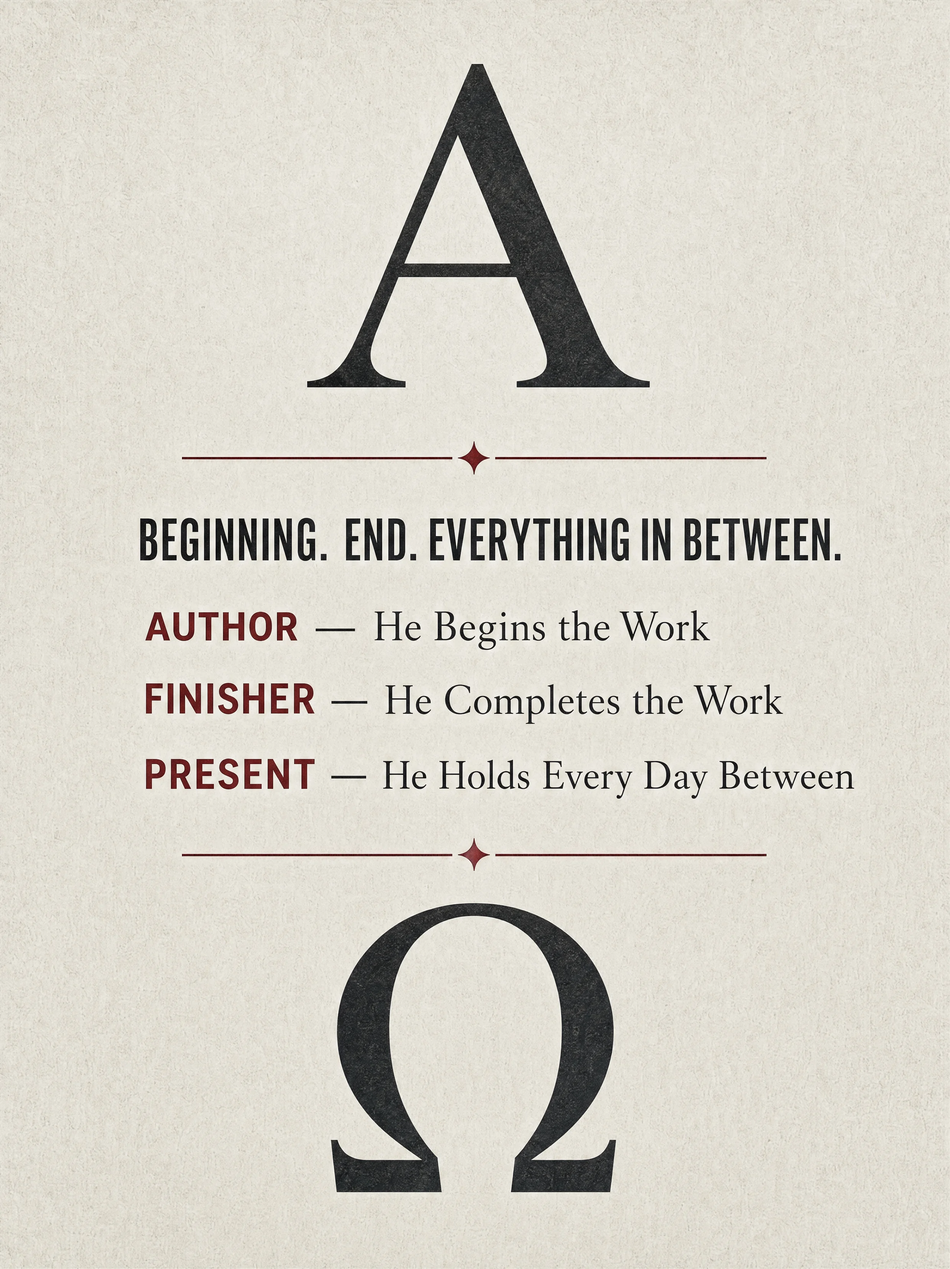
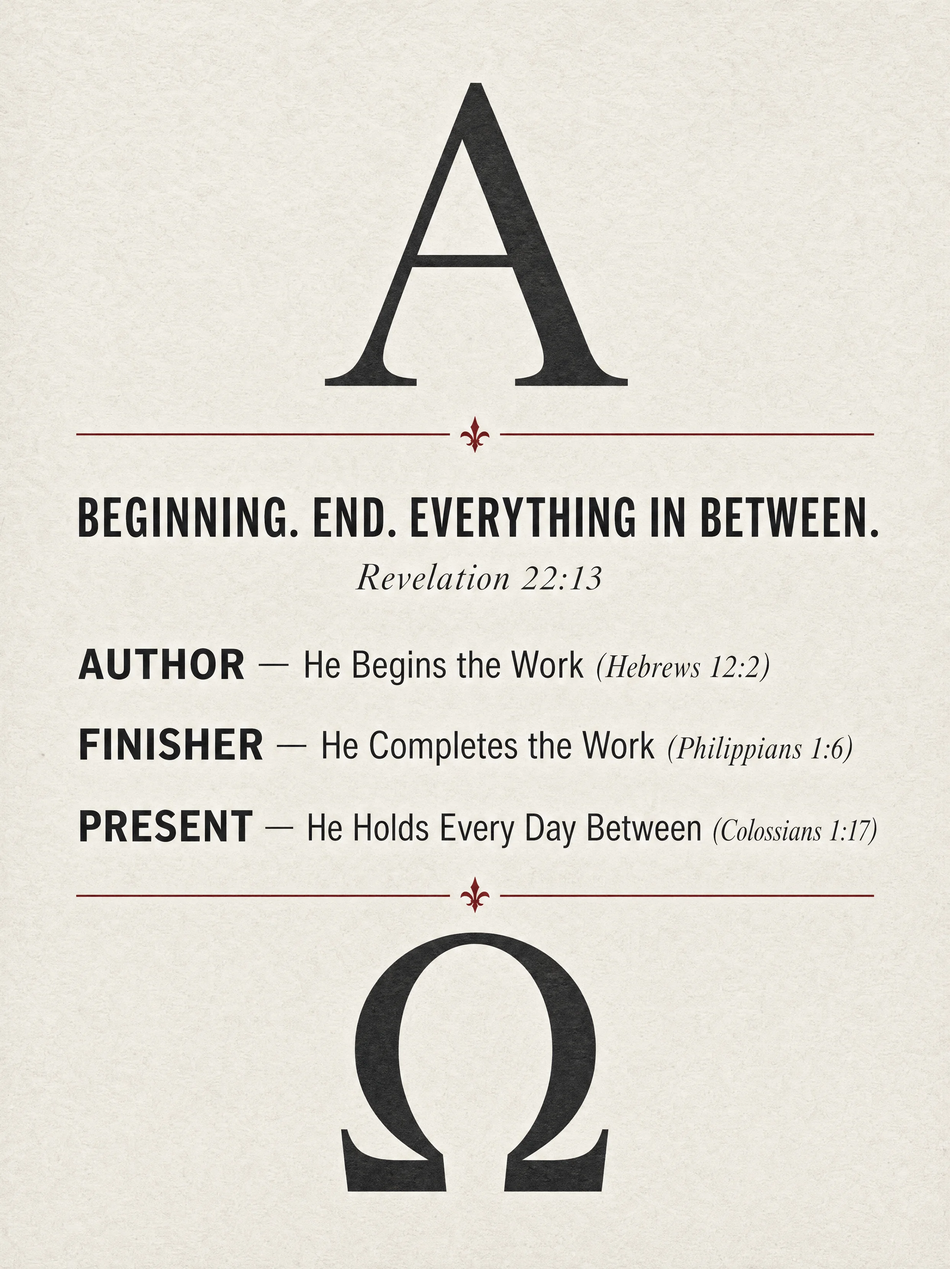
fix(blog): patch alpha-omega post — add IG embed + scripture-cited infographic

diff --git a/src/data/blog-drafts/alpha-omega-revelation-22-13-meaning.ts b/src/data/blog-drafts/alpha-omega-revelation-22-13-meaning.ts
@@ -649,6 +649,13 @@ const post: BlogPost = {
       ],
     },
 
+    // ─── INSTAGRAM EMBED ───────────────────────────────────────────────────────
+    {
+      _key: "ig_aorev",
+      _type: "instagramEmbed",
+      url: "https://www.instagram.com/reel/DY4ULbzDnhg/",
+    },
+
     // ─── SECTION 4 — Identity / Foundation ─────────────────────────────────────
     {
       _key: "s4h2",
